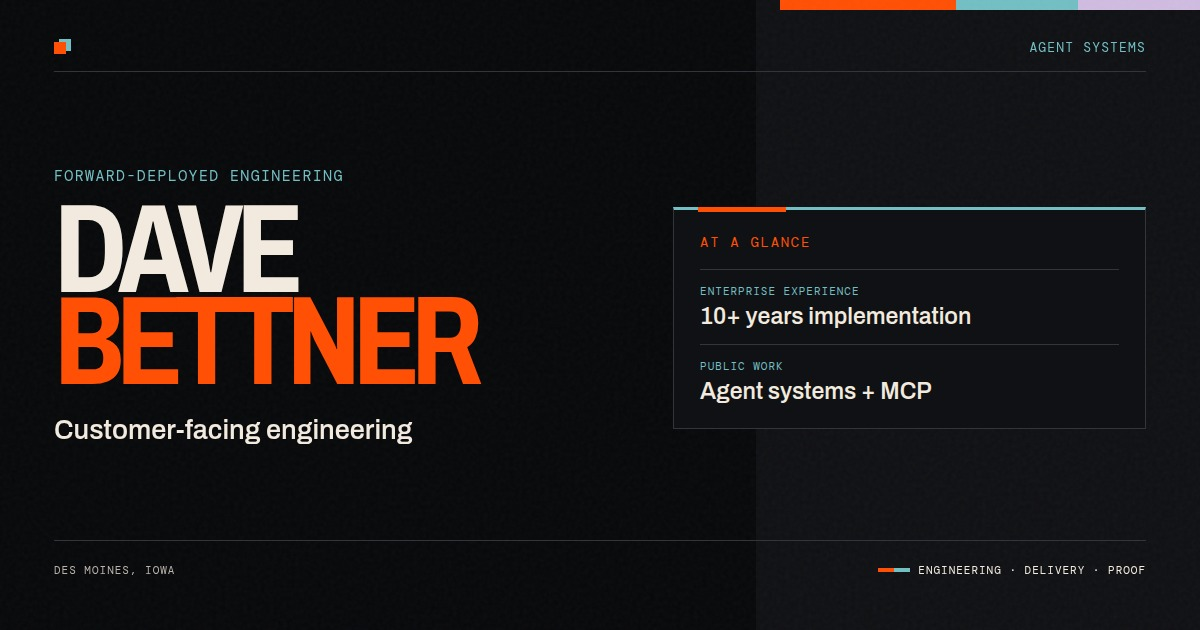
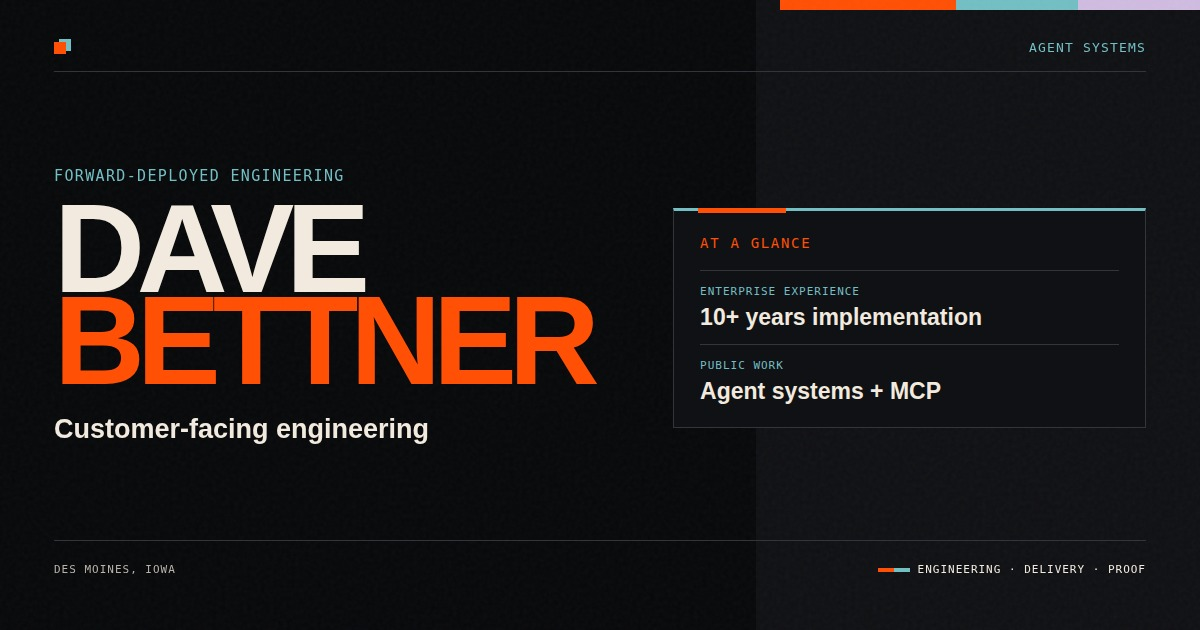
hermes rescue snapshot t_e716c9e4 (modified+untracked only)

diff --git a/public/styles/premium-profile-correction.css b/public/styles/premium-profile-correction.css
@@ -88,3 +88,4 @@ footer{background:var(--paper);color:var(--muted);border-color:var(--ink)}
 @media(max-width:720px){.wrap{width:calc(100% - 32px)}.masthead{min-height:62px}.mast-brand::before{width:18px;margin-right:-2px}.cover-copy{display:flex;min-height:auto;padding:26px 0 22px}.cover-kicker{order:0;margin:0 0 18px}body .cover h1{order:1;margin:0;font-size:clamp(3.9rem,20vw,5.2rem);line-height:.78}.cover-role{order:2;max-width:24ch;margin-top:22px;font-size:1.1rem}.cover-support{order:3;max-width:30ch;margin-top:12px;color:var(--muted);font-size:.88rem;font-stretch:100%;line-height:1.45;letter-spacing:0;text-transform:none}.cover-actions{order:4;margin-top:18px}.cover-actions-primary{display:grid;grid-template-columns:1.35fr .65fr;gap:8px}.cover-actions-primary .round{width:100%}body .cover-meta{display:none}body .cover-specimen{height:auto;min-height:0;padding:0;aspect-ratio:4/5}body .cover-specimen>*{height:100%}.cover-portrait{object-position:center center}.cover-specimen::before{inset:5%}.cover-specimen::after{inset:8% 6% 6%;background-size:62% 72%,45% 58%}.portrait-halftone{inset:8% 6% 6%;background-size:6px 6px;background-position:0 0,3px 3px;opacity:.72}.section-pad{padding-block:58px}.proof-head,.work-head{grid-template-columns:minmax(0,1fr)}.proof-head .section-index,.proof-head h2,.proof-head .section-lead,.work-head .section-index,.work-head h2,.work-head .section-lead{grid-column:1}.proof-head h2,.work-head h2,.loop-head h2,.about-copy h2,.cta-block h2{font-size:clamp(2.7rem,13vw,4rem)}.proof-row{grid-template-columns:18px minmax(0,1fr);gap:8px}.building-list{gap:14px;border-top:0}.building-card{grid-template-columns:1fr;border:1px solid var(--ink)}.building-visual{border-right:0;border-bottom:1px solid var(--ink)}.about-copy{gap:12px}}
 @media(max-width:360px){body .cover h1{font-size:3.75rem}.cover-actions-primary{grid-template-columns:minmax(0,1.55fr) minmax(0,.62fr)}.cover-actions-primary .round{padding-inline:8px;font-size:.56rem;white-space:nowrap}}
 @media(prefers-reduced-motion:reduce){.building-card{transition:none}.cover-specimen [data-portrait-dither]{opacity:.22!important}}
+@media(min-width:961px){.cover-grid{grid-template-columns:minmax(0,1fr) minmax(420px,.92fr);column-gap:clamp(48px,7vw,112px)}.cover-copy{padding-right:clamp(72px,8vw,132px)}body .cover-role{width:11ch!important;max-width:11ch!important}.cover-support{max-width:20ch!important}}
